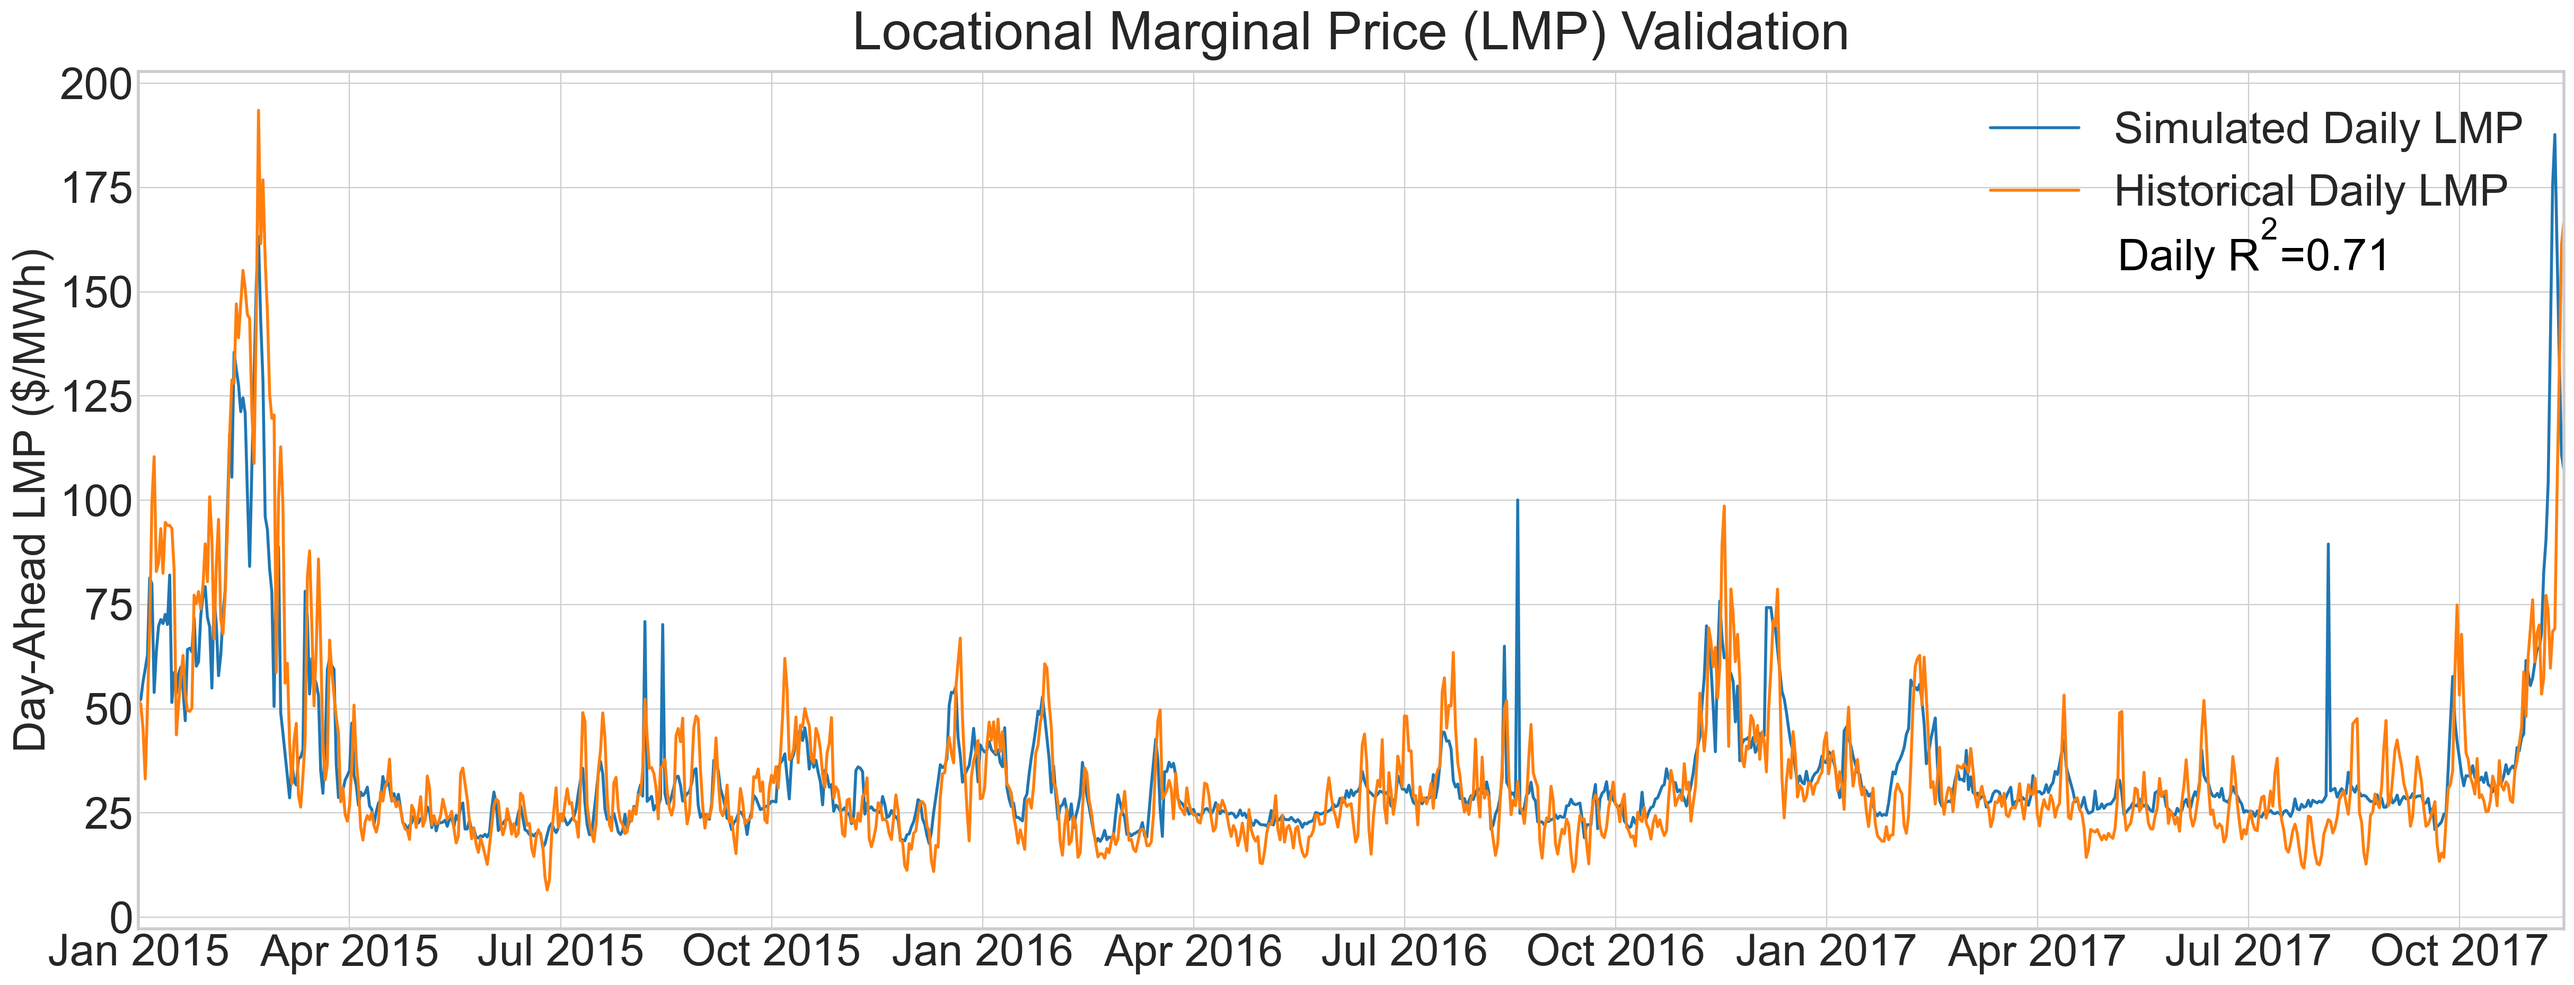
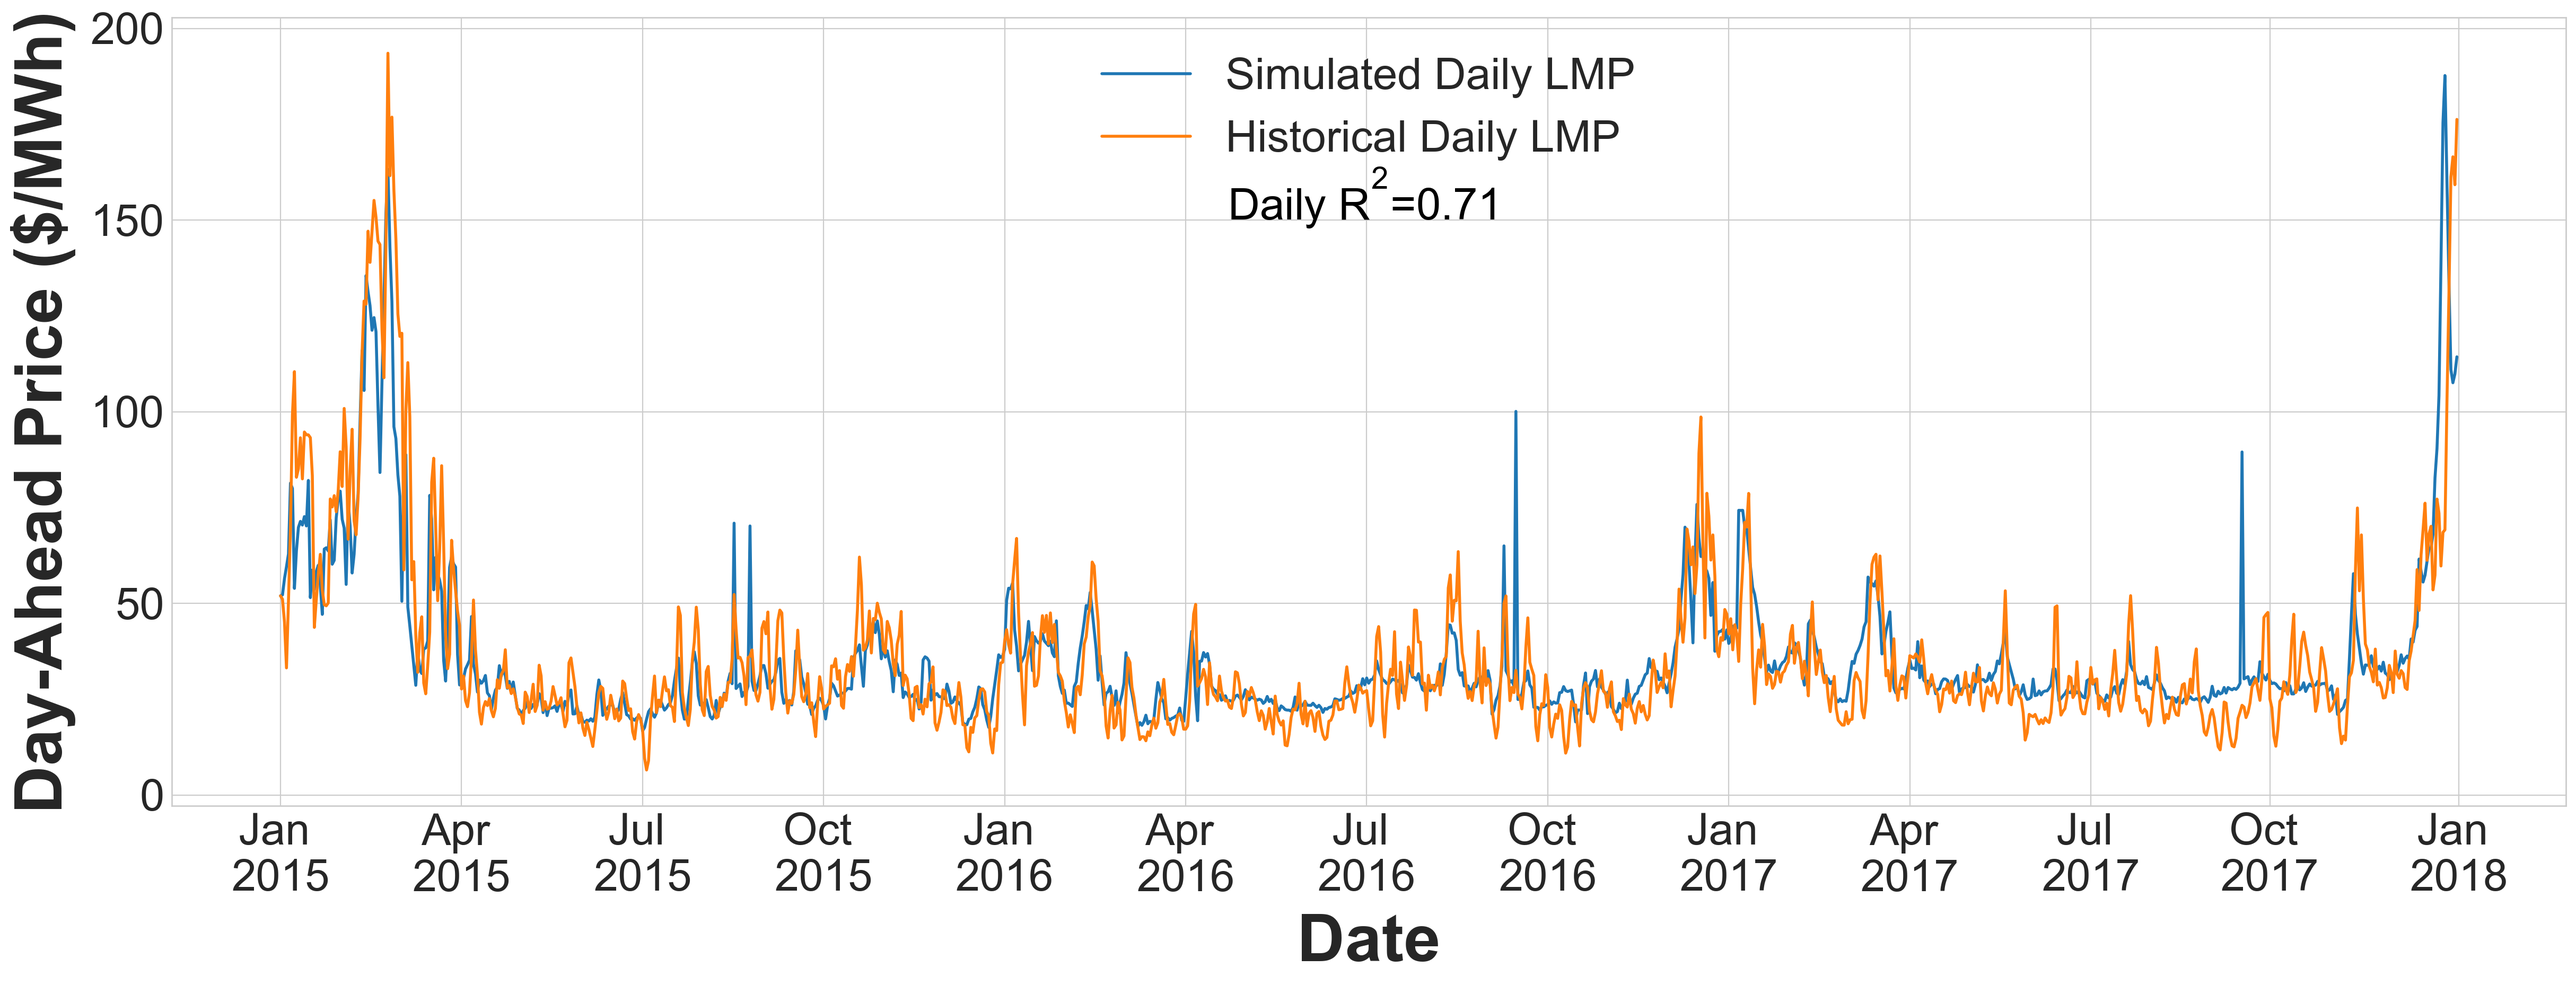
Validation update

Changed region(s): [[0.0, 0.0, 1.0, 0.9989], [0.4353, 0.1249, 0.6219, 0.1561], [0.4664, 0.1873, 0.5908, 0.2185]]

diff --git a/UCED/Validation_and_Price_Calculation/NEISO_price_calculation.py b/UCED/Validation_and_Price_Calculation/NEISO_price_calculation.py
@@ -9,6 +9,7 @@ from sklearn import linear_model
 import pandas as pd
 import numpy as np
 import matplotlib.pyplot as plt
+import seaborn as sns
 
 #########################################################
 #                    Weight by zone
@@ -73,40 +74,60 @@ print('R-squared value for daily prices is ', daily_reg.score(daily_x, daily_y))
 
 #Creating a figure showing both simulated and historical daily LMPs
 plt.style.use('seaborn-whitegrid')
-plt.figure(figsize=(25,10))
-plt.rcParams.update({'axes.linewidth': 2})
-plt.rcParams.update({'axes.titlepad': 15})
-plt.rcParams.update({'font.size': 30})
-
-plt.plot(W_daily, label='Simulated Daily LMP', linewidth=2)
-plt.plot(H_daily, label='Historical Daily LMP', linewidth=2)
-plt.legend(loc='upper right')
-plt.ylabel('Day-Ahead LMP ($/MWh)')
-plt.xlim([0,1092])
-plt.xticks([0,95,190,285,380,475,570,665,760,855,950,1045], ['Jan 2015','Apr 2015','Jul 2015','Oct 2015','Jan 2016','Apr 2016','Jul 2016','Oct 2016','Jan 2017','Apr 2017','Jul 2017','Oct 2017'])
-plt.text(891, 155, "Daily $\mathregular{R^{2}}$"+'='+str(round(daily_reg.score(daily_x, daily_y),2)), color='black')
-plt.title('Locational Marginal Price (LMP) Validation')
+plt.rcParams.update({'font.size': 30}) 
+plt.rcParams['font.sans-serif'] = "Arial"
+axis_fontsize=45
+axis_label_pad = 10
+tick_pad = 5
+fig, ax = plt.subplots(figsize=(25,10))
+ax.plot(W_daily, label='Simulated Daily LMP', linewidth=2)
+ax.plot(H_daily, label='Historical Daily LMP', linewidth=2)
+ax.legend(loc='best')
+ax.set_ylabel('Day-Ahead Price ($/MWh)', labelpad=axis_label_pad, weight = 'bold', fontsize=axis_fontsize)
+ax.set_xlabel('Date', labelpad=axis_label_pad, weight = 'bold', fontsize=axis_fontsize)
+# ax.set_xlim([0,1092])
+ax.set_xticks([0,91,182,273,364,455,546,637,728,819,910,1000,1095])
+ax.set_xticklabels(['Jan \n2015','Apr \n2015','Jul \n2015','Oct \n2015','Jan \n2016','Apr \n2016','Jul \n2016','Oct \n2016','Jan \n2017','Apr \n2017','Jul \n2017','Oct \n2017','Jan \n2018'])
+ax.text(476, 150, "Daily $\mathregular{R^{2}}$"+'='+str(round(daily_reg.score(daily_x, daily_y),2)), color='black')
+# ax.title('Locational Marginal Price (LMP) Validation')
+ax.tick_params(axis='both', which='both', pad=tick_pad)
 plt.tight_layout()
 plt.savefig('Validation.png', bbox_inches='tight', dpi=200)
 plt.show()
 plt.clf()
 
+#Creating figures for the daily and hourly errors
 Daily_Error = Daily_hist['LMP'] - SD['NEISO']
 Hourly_Error = Hourly_hist['LMP'] - SH['NEISO']
 
-plt.style.use('default')
 plt.style.use('seaborn-whitegrid')
-plt.hist(Daily_Error, bins=40)
-plt.title('Daily Errors')
-plt.xlabel('Difference between Historical and Simulated Daily LMP ($/MWh)')
-plt.ylabel('Frequency')
+plt.rcParams.update({'font.size': 14}) 
+plt.rcParams['font.sans-serif'] = "Arial"
+axis_fontsize=16
+axis_label_pad = 10
+tick_pad = 5
+fig, ax = plt.subplots(figsize=(10,6))
+sns.histplot(Daily_Error, bins=40,ax=ax)
+# ax.set_title('Daily Errors')
+ax.set_xlabel('Difference between Historical and Simulated Daily Price ($/MWh)', labelpad=axis_label_pad, weight = 'bold', fontsize=axis_fontsize)
+ax.set_ylabel('Frequency', labelpad=axis_label_pad, weight = 'bold', fontsize=axis_fontsize)
+ax.tick_params(axis='both', which='both', pad=tick_pad)
 plt.savefig('Daily_Error.png', bbox_inches='tight', dpi=200)
 plt.show()
 plt.clf()
-plt.hist(Hourly_Error, bins=40)
-plt.title('Hourly Errors')
-plt.xlabel('Difference between Historical and Simulated Hourly LMP ($/MWh)')
-plt.ylabel('Frequency')
+
+plt.style.use('seaborn-whitegrid')
+plt.rcParams.update({'font.size': 14}) 
+plt.rcParams['font.sans-serif'] = "Arial"
+axis_fontsize=16
+axis_label_pad = 10
+tick_pad = 5
+fig, ax = plt.subplots(figsize=(10,6))
+sns.histplot(Hourly_Error, bins=40, ax=ax)
+# plt.title('Hourly Errors')
+ax.set_xlabel('Difference between Historical and Simulated Hourly Price ($/MWh)', labelpad=axis_label_pad, weight = 'bold', fontsize=axis_fontsize)
+ax.set_ylabel('Frequency', labelpad=axis_label_pad, weight = 'bold', fontsize=axis_fontsize)
+ax.tick_params(axis='both', which='both', pad=tick_pad)
 plt.savefig('Hourly_Error.png', bbox_inches='tight', dpi=200)
 plt.show()
 plt.clf()
